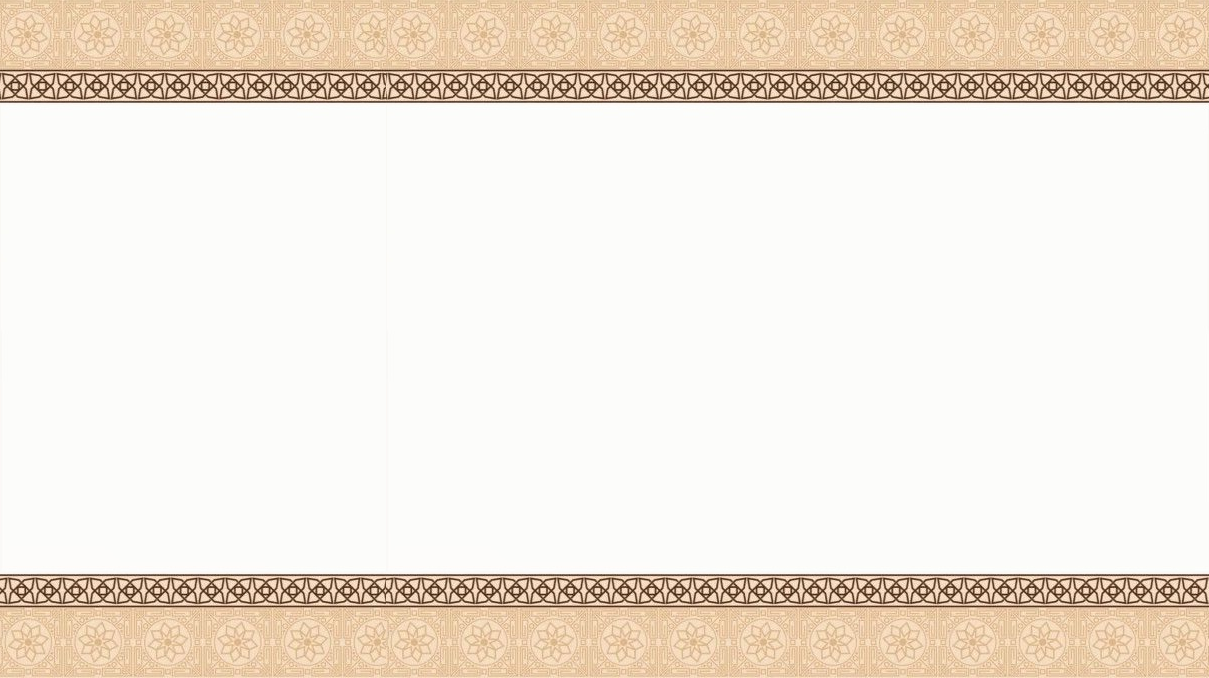
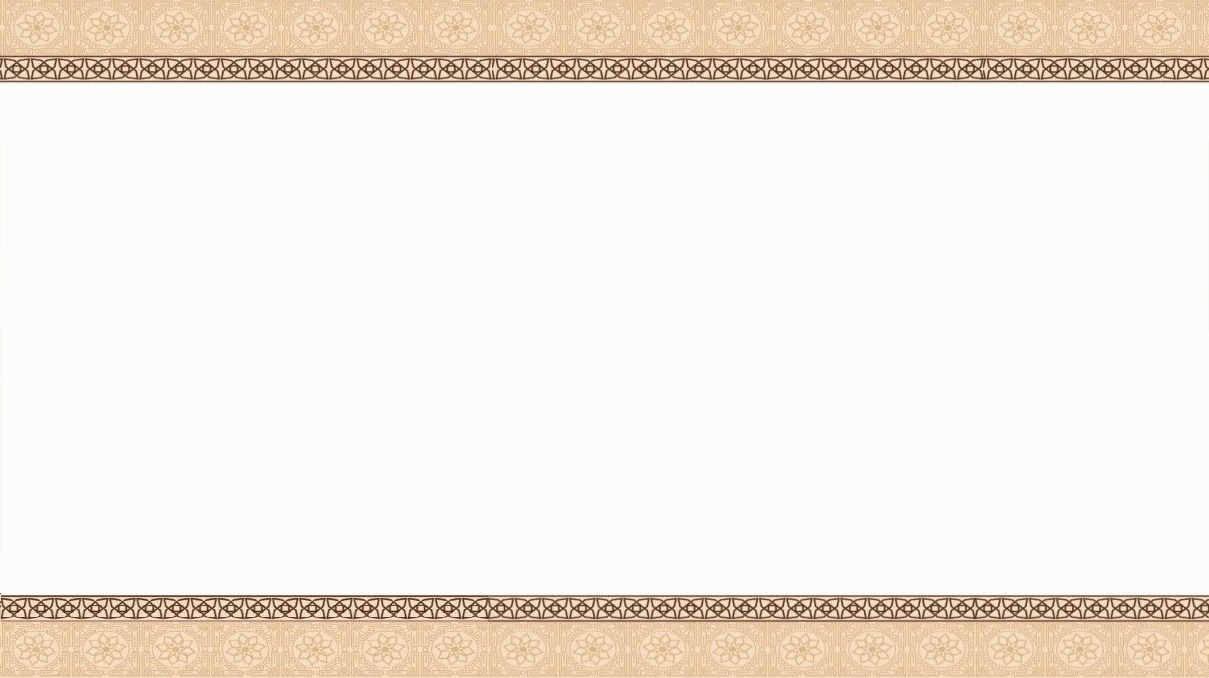
visual changes

Changed region(s): [[0.0, 0.8363, 1.0, 1.0], [0.0, 0.0, 1.0, 0.1549]]

diff --git a/src/components/LiveWall.jsx b/src/components/LiveWall.jsx
@@ -43,67 +43,62 @@ function LiveWall() {
   const cellSize = 100 / gridDimension;
 
   return (
-    <div className="relative min-h-screen h-screen w-screen bg-ceremony-cream overflow-hidden flex flex-col items-center justify-center p-10">
+    <div className="relative h-screen w-screen bg-ceremony-cream overflow-hidden flex flex-col items-center justify-between p-[4vh]">
       
-      {/* BACKGROUND COLLAGE - Dynamic Shrink to Fill */}
+      {/* BACKGROUND COLLAGE - Universal Scaling */}
       <div className="absolute inset-0 flex flex-wrap opacity-15 grayscale pointer-events-none overflow-hidden">
         {posts.map((post, i) => (
           <div 
             key={`bg-${i}`} 
-            className="flex-grow border-[0.5px] border-white/20 overflow-hidden"
+            className="flex-grow border-[0.1vh] border-white/20 overflow-hidden"
             style={{
-              // These dynamic values ensure images fill the screen and shrink as count increases
               flexBasis: `${cellSize}%`,
               height: `${cellSize}%`,
-              minWidth: '50px',
-              minHeight: '50px'
+              minWidth: '2vw',
+              minHeight: '2vh'
             }}
           >
             {post.imageUrl ? (
-              <img 
-                src={post.imageUrl} 
-                className="w-full h-full object-cover" 
-                alt="" 
-              />
+              <img src={post.imageUrl} className="w-full h-full object-cover" alt="" />
             ) : (
-              <div className="w-full h-full p-2 bg-white/50 flex items-center justify-center text-center text-[10px] font-serif text-ceremony-emerald italic leading-tight break-words">
-                {post.message.substring(0, 30)}...
+              <div className="w-full h-full p-[0.5vh] bg-white/50 flex items-center justify-center text-center text-[1vh] font-serif text-ceremony-emerald italic overflow-hidden">
+                {post.message.substring(0, 20)}
               </div>
             )}
           </div>
         ))}
       </div>
 
-      {/* HEADER */}
-      <div className="relative z-30 text-center mb-6">
-        <div className="text-ceremony-gold text-7xl md:text-8xl mb-2 font-arabic drop-shadow-md">
+      {/* HEADER - Scaled with vh */}
+      <div className="relative z-30 text-center">
+        <div className="text-ceremony-gold text-[8vh] mb-[0.5vh] font-arabic drop-shadow-md">
           بِسْمِ اللهِ الرَّحْمٰنِ الرَّحِيْمِ
         </div>
-        <h1 className="font-serif text-6xl md:text-7xl text-ceremony-emerald tracking-tight bg-white/70 backdrop-blur-md px-10 py-2 rounded-full inline-block shadow-sm">
+        <h1 className="font-serif text-[4.5vh] text-ceremony-emerald tracking-tight bg-white/70 backdrop-blur-md px-[4vw] py-[1vh] rounded-full shadow-sm">
           My Little Angel's Naming Ceremony
         </h1>
       </div>
 
-      {/* CENTER STAGE */}
-      <div className="relative z-20 w-full max-w-[85vw] px-2">
+      {/* CENTER STAGE - Adaptive sizing */}
+      <div className="relative z-20 w-full max-w-[85vw] px-[2vw]">
         <div 
           key={currentPost.id} 
-          className="relative h-[65vh] w-full shadow-[0_50px_120px_-30px_rgba(0,0,0,0.4)] rounded-[40px] overflow-hidden animate-zoom-in"
+          className="relative h-[62vh] w-full shadow-[0_4vh_10vh_-3vh_rgba(0,0,0,0.4)] rounded-[5vh] overflow-hidden animate-zoom-in"
           style={{
             backgroundImage: `url(${frameBg})`,
             backgroundSize: '100% 100%',
             backgroundRepeat: 'no-repeat'
           }}
         >
-          <div className="absolute inset-0 flex flex-col md:flex-row items-center p-6 md:p-12">
+          <div className="absolute inset-0 flex flex-col md:flex-row items-center p-[5vh]">
             
             {/* Photo Section */}
             {currentPost.imageUrl && (
-              <div className="w-full md:w-1/2 h-full flex justify-center items-center p-4">
-                <div className="w-fit h-fit max-h-[85%] overflow-hidden rounded-2xl shadow-xl border-4 border-white/80">
+              <div className="w-full md:w-1/3 h-full flex justify-center items-center">
+                <div className="w-fit h-fit max-h-[85%] overflow-hidden rounded-[3vh] shadow-xl border-[0.6vh] border-white/80">
                   <img 
                     src={currentPost.imageUrl} 
-                    className="max-h-[50vh] w-auto h-auto block object-contain" 
+                    className="max-h-[48vh] w-auto h-auto block object-contain" 
                     alt="Guest"
                   />
                 </div>
@@ -111,19 +106,19 @@ function LiveWall() {
             )}
 
             {/* Message Section */}
-            <div className={`flex flex-col items-center justify-center p-6 text-center ${currentPost.imageUrl ? 'md:w-1/2' : 'w-full h-full'}`}>
-              <div className="bg-white/50 backdrop-blur-lg p-8 rounded-[30px] border border-white/20 w-full h-fit max-h-[90%] overflow-hidden flex flex-col justify-center">
-                <p className="font-serif text-5xl md:text-6xl text-stone-700 italic leading-snug break-words">
+            <div className={`flex flex-col items-center justify-center text-center p-[2vh] ${currentPost.imageUrl ? 'md:w-2/3' : 'w-full h-full'}`}>
+              <div className="p-[4vh] rounded-[4vh] border border-white/20 w-full h-fit max-h-[80%] flex flex-col justify-center">
+                <p className="font-serif text-[4.5vh] text-stone-700 italic leading-tight break-words">
                   "{currentPost.message}"
                 </p>
                 
                 {currentPost.name && (
-                  <p className="mt-6 text-ceremony-gold uppercase tracking-widest font-bold text-[35px] md:text-[45px]">
+                  <p className="mt-[2vh] text-ceremony-gold uppercase tracking-widest font-bold text-[3vh]">
                     — {currentPost.name}
                   </p>
                 )}
 
-                <div className="mt-8 text-amber-600 text-6xl md:text-7xl tracking-widest opacity-80 font-light">
+                <div className="mt-[3vh] text-amber-600 text-[3vh] tracking-widest opacity-80">
                   {selectedSeparator}
                 </div>
               </div>
@@ -132,8 +127,8 @@ function LiveWall() {
         </div>
       </div>
 
-      {/* FOOTER */}
-      <div className="relative z-30 mt-8 bg-ceremony-emerald text-ceremony-cream px-10 py-3 rounded-full font-serif tracking-[0.3em] text-[28px] uppercase shadow-2xl">
+      {/* FOOTER - Scaled with vh */}
+      <div className="relative z-30 bg-ceremony-emerald text-ceremony-cream px-[5vw] py-[1.5vh] rounded-full font-serif tracking-[0.3em] text-[2.8vh] uppercase shadow-2xl mb-[1vh]">
         May 17, 2026
       </div>
     </div>